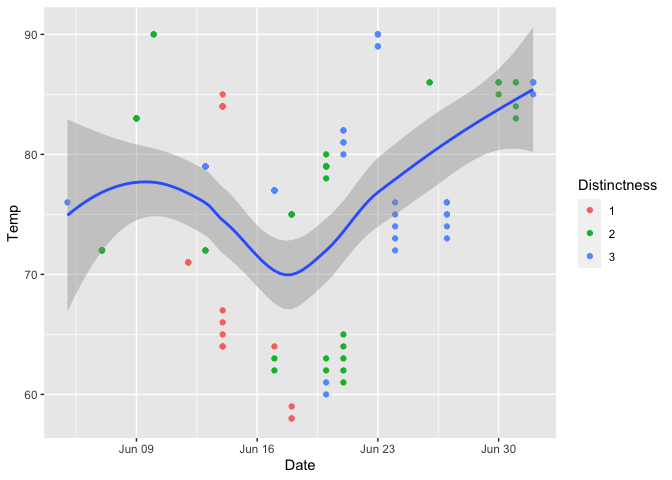
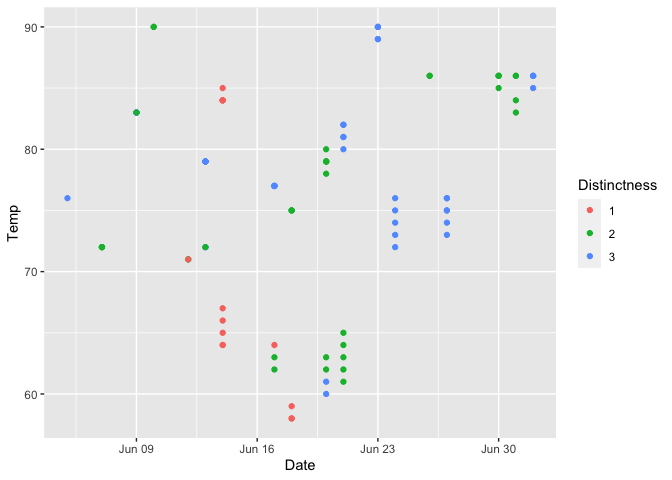
Report for error discussion.

diff --git a/challenges/c02-michelson-assignment.md b/challenges/c02-michelson-assignment.md
@@ -238,19 +238,16 @@ uncertainty) greater or less than the true error?
 #Use this as reference for small data sets: https://www.physics.upenn.edu/sites/default/files/Managing%20Errors%20and%20Uncertainty.pdf
 
 error <- LIGHTSPEED_VACUUM - LIGHTSPEED_MICHELSON
-upperbound <- LIGHTSPEED_MICHELSON + LIGHTSPEED_PM
-lowerbound <- LIGHTSPEED_MICHELSON - LIGHTSPEED_PM
-
-abs(error)/LIGHTSPEED_PM
+relative_error <- (LIGHTSPEED_MICHELSON - LIGHTSPEED_VACUUM)/LIGHTSPEED_VACUUM*100
+factor <- abs(error)/LIGHTSPEED_PM
 ```
-
-    ## [1] 2.971412
 
 ***Observations***:
 
-**Michelson’s error is 2.9714118 times his uncertainty. As such, his
-nominal estimate and error did not capture the true speed of light in a
-vacuum.**
+**Michelson’s error is 2.9714118 times his uncertainty. His nominal
+estimate (2.9994410^{5} km/s) and error (+/- 51 km/s) did not capture
+the true speed of light in a vacuum (2.997924610^{5} kms/s). That being
+said, his relative error is so small - 0.050549 %\!**
 
 # Question 4
 
@@ -331,12 +328,6 @@ plot2 <- df_q2 %>%
   facet_grid(Distinctness~.) +
   theme(
     legend.position = "NONE")
-  # ) +
-  # annotate("text", 
-  #          x = 299750, 
-  #          y = 4, label = 
-  #            c("Vacuum Speed of light->"), 
-  #          size = 3)
 
 plot2
 ```
@@ -405,15 +396,15 @@ plot5 <- df_error %>%
    annotate("text", 
            x = 1.5, 
            y = 299830, 
-           label = c("Vacuum \nSpeed of Light"), 
+           label = c("True Vacuum \nSpeed of Light"), 
            size = 3,
-           color = "white") +
+           color = "black") +
     annotate("text", 
            x = 1.5, 
            y = 299980, 
            label = c("Michelson's Nominal \nSpeed of Light"), 
            size = 3,
-           color = "white") +
+           color = "black") +
   annotate("rect", 
            xmin = 0.5, 
            xmax = 3.5, 
@@ -435,15 +426,32 @@ plot5 + labs(title = "Vacuum Velocity Uncertainty by Distinctness", y = "Average
 ``` r
 plot6 <- df_q2 %>% 
   ggplot()+
-  geom_point(aes(x = Date, y = Temp, color = Distinctness)) +
-  geom_smooth(aes(x = Date, y = Temp))
+  geom_point(aes(x = Date, y = Temp, color = Distinctness))
 
 plot6
 ```
 
-    ## `geom_smooth()` using method = 'loess' and formula 'y ~ x'
-
 ![](c02-michelson-assignment_files/figure-gfm/q4-task-6.png)<!-- -->
+
+``` r
+plot7 <- df_q2 %>% 
+  ggplot() +
+  geom_boxplot(aes(x = Date,y = Temp, group = Date))
+
+plot7
+```
+
+![](c02-michelson-assignment_files/figure-gfm/q4-task-7.png)<!-- -->
+
+``` r
+plot8 <- df_q2 %>% 
+  ggplot() +
+  geom_boxplot(aes(x = Date,y = VelocityVacuum, group = Date))
+
+plot8
+```
+
+![](c02-michelson-assignment_files/figure-gfm/q4-task-8.png)<!-- -->
 
 ## Bibliography
 
